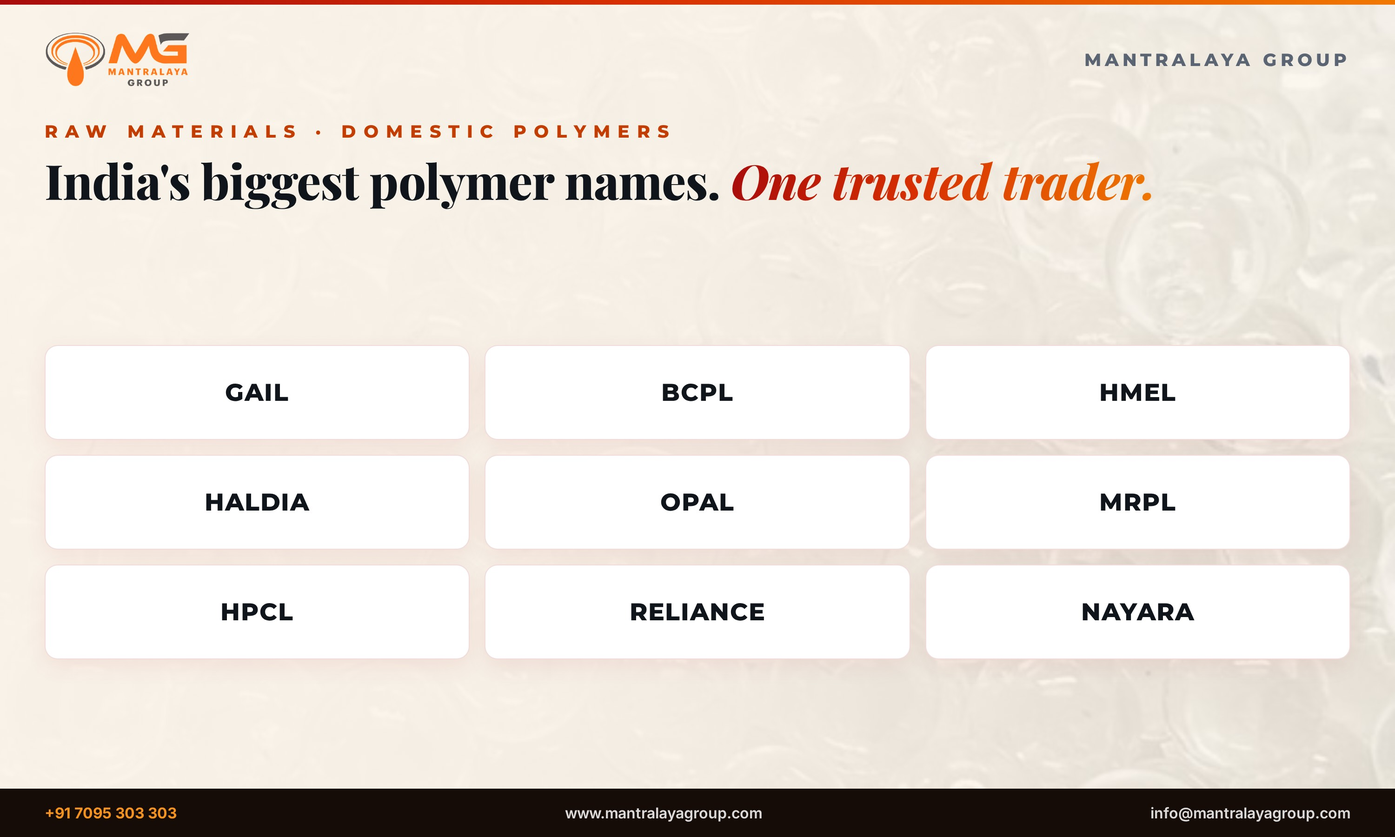
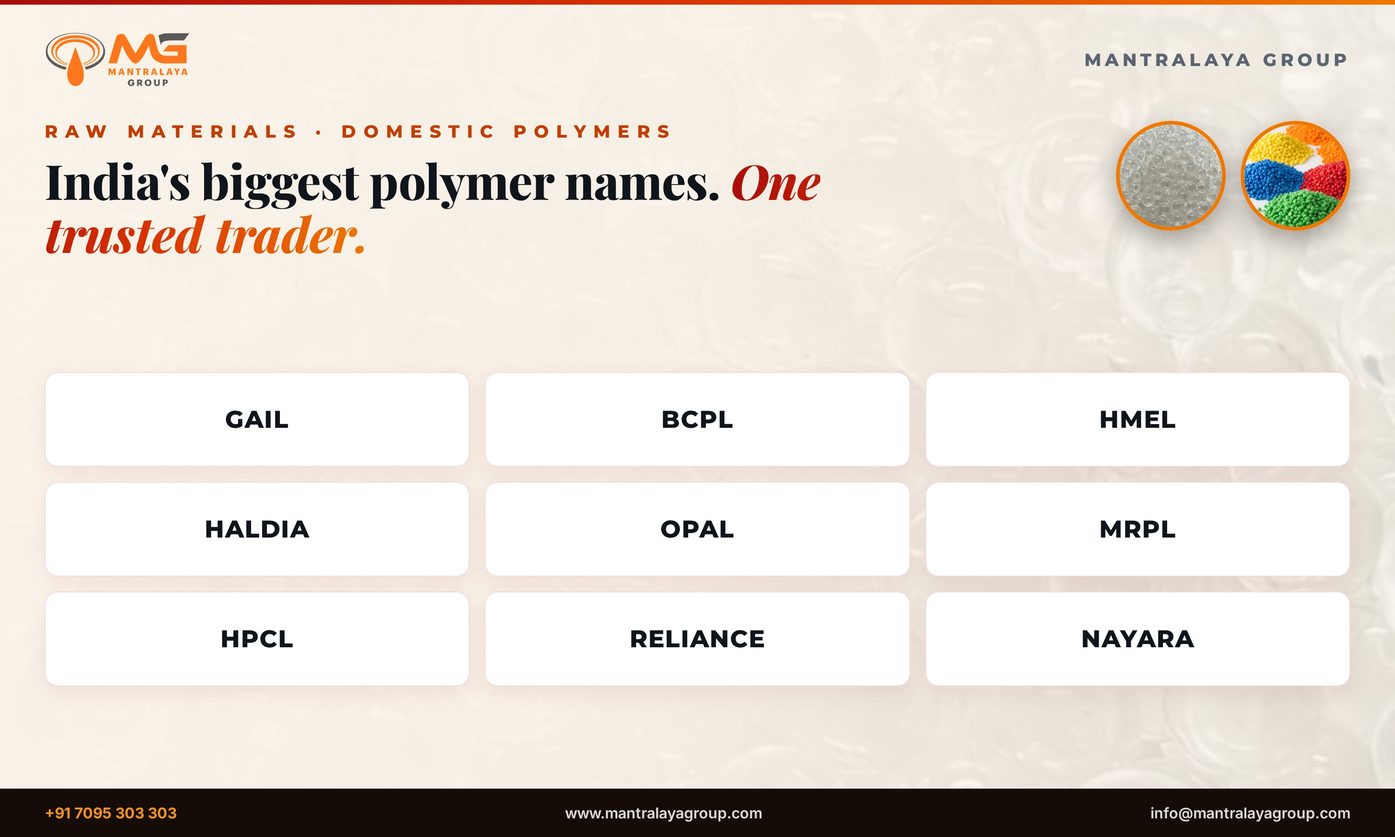
Posters: no expo references, raw-material photos, WE TRADE totem, BGP sutli poster with yellow rope

Changed region(s): [[0.031, 0.4044, 0.992, 0.84], [0.589, 0.1244, 0.992, 0.3111], [0.031, 0.2489, 0.248, 0.3111]]

diff --git a/posters/src/poster-12-totem--dark.html b/posters/src/poster-12-totem--dark.html
@@ -14,24 +14,26 @@ body{width:600px;height:2133px;overflow:hidden;position:relative;font-family:'Mo
 .bgimg::after{content:'';position:absolute;inset:0;background:linear-gradient(100deg, rgba(18,9,6,0.97) 0%, rgba(18,9,6,0.93) 45%, rgba(18,9,6,0.72) 100%)}
 .z{position:relative;z-index:4}
 </style></head><body><style>
-.wrap{flex:1;display:flex;flex-direction:column;align-items:center;text-align:center;padding:44px 40px 0;position:relative;z-index:4}
-.wrap img.lg{height:96px}
-.label2{margin-top:36px;font-size:24px;font-weight:800;letter-spacing:10px;color:#F6921E}
-.cap2{font-size:64px;margin-top:18px}
+.wrap{flex:1;display:flex;flex-direction:column;align-items:center;text-align:center;padding:40px 40px 0;position:relative;z-index:4}
+.wrap img.lg{height:92px}
+.label2{margin-top:30px;font-size:24px;font-weight:800;letter-spacing:10px;color:#F6921E}
+.cap2{font-size:60px;margin-top:14px}
 .cap2 em{background:linear-gradient(100deg,#FF6A2B,#F6921E 60%,#FFC46B);-webkit-background-clip:text;background-clip:text;color:transparent;font-style:italic}
-.tt{width:330px;height:330px;border-radius:50%;overflow:hidden;border:6px solid;margin-top:44px;box-shadow:0 16px 40px rgba(0,0,0,0.5)}
-.tt:nth-of-type(1){border-color:#A80B0B}.tt:nth-of-type(2){border-color:#F07800}
+.tw{margin-top:38px}
+.tt{width:280px;height:280px;border-radius:50%;overflow:hidden;border:6px solid;margin:0 auto;box-shadow:0 16px 40px rgba(0,0,0,0.5)}
+.tw:nth-of-type(1) .tt{border-color:#A80B0B}.tw:nth-of-type(2) .tt{border-color:#D83000}.tw:nth-of-type(3) .tt{border-color:#F07800}
 .tt img{width:100%;height:100%;object-fit:cover}
-.sec{margin-top:46px;font-size:20px;font-weight:800;letter-spacing:6px;color:rgba(255,255,255,0.55)}
-.bl{margin-top:14px;font-size:20px;font-weight:800;line-height:1.85;letter-spacing:0.5px}
-.stall{margin-top:70px;background:linear-gradient(105deg,#A80B0B 0%,#D83000 46%,#F07800 100%);color:#fff;border-radius:24px;padding:34px 46px;font-size:28px;font-weight:900;letter-spacing:2px;line-height:1.6;white-space:nowrap}
+.tl{margin-top:14px;font-size:19px;font-weight:800;letter-spacing:4px;color:rgba(255,255,255,0.85)}
+.wetrade{margin-top:52px;font-size:52px;font-weight:900;letter-spacing:6px;background:linear-gradient(100deg,#FF6A2B,#F6921E 60%,#FFC46B);-webkit-background-clip:text;background-clip:text;color:transparent;}
+.sec{margin-top:34px;font-size:20px;font-weight:800;letter-spacing:6px;color:rgba(255,255,255,0.55)}
+.bl{margin-top:12px;font-size:20px;font-weight:800;line-height:1.8;letter-spacing:0.5px}
 </style><div class="bgimg"><img src="../../products/natural-granules.jpg"></div>
 <div class="rule"></div>
 <div class="wrap"><img class="lg" src="../../mg-logo-dark.png">
 <div class="label2">RAW MATERIALS</div>
 <div class="cap cap2">Every polymer.<br><em>One counter.</em></div>
-<div class="tt"><img src="../../products/coloured-granules.jpg"></div><div class="tt"><img src="../../products/pigments.jpg"></div>
+<div class="tw"><div class="tt"><img src="../../products/natural-granules.jpg"></div><div class="tl">PLASTIC GRANULES</div></div><div class="tw"><div class="tt"><img src="../../products/coloured-granules.jpg"></div><div class="tl">MASTER BATCHES</div></div><div class="tw"><div class="tt"><img src="../../products/pigments.jpg"></div><div class="tl">PIGMENTS</div></div>
+<div class="wetrade">WE TRADE</div>
 <div class="sec">DOMESTIC</div><div class="bl">GAIL · BCPL · HMEL · HALDIA · OPAL<br>MRPL · HPCL · RELIANCE · NAYARA</div>
 <div class="sec">IMPORTED</div><div class="bl">ARAMCO · BOROUGE · CABOT · CELANESE<br>CHEVRON PHILLIPS · EXXON MOBIL · FORMOSA<br>GC MARKETING · GULF POLYMERS · INEOS<br>LG CHEM · LYONDELL BASELL · MITSUBISHI<br>OQ (LUBAN) · SABIC · SCGC · WESTLAKE</div>
-<div class="stall">HIPLEX 2026<br>HALL 4<br>STALLS C 05 &amp; C 06</div>
 </div><div class="ftr" style="justify-content:center;font-size:19px;"><span>www.mantralayagroup.com</span></div></body></html>

diff --git a/posters/src/poster-12-totem--light.html b/posters/src/poster-12-totem--light.html
@@ -14,24 +14,26 @@ body{width:600px;height:2133px;overflow:hidden;position:relative;font-family:'Mo
 .bgimg::after{content:'';position:absolute;inset:0;background:linear-gradient(100deg, rgba(251,244,235,0.97) 0%, rgba(251,244,235,0.94) 45%, rgba(251,244,235,0.72) 100%)}
 .z{position:relative;z-index:4}
 </style></head><body><style>
-.wrap{flex:1;display:flex;flex-direction:column;align-items:center;text-align:center;padding:44px 40px 0;position:relative;z-index:4}
-.wrap img.lg{height:96px}
-.label2{margin-top:36px;font-size:24px;font-weight:800;letter-spacing:10px;color:#C43D00}
-.cap2{font-size:64px;margin-top:18px}
+.wrap{flex:1;display:flex;flex-direction:column;align-items:center;text-align:center;padding:40px 40px 0;position:relative;z-index:4}
+.wrap img.lg{height:92px}
+.label2{margin-top:30px;font-size:24px;font-weight:800;letter-spacing:10px;color:#C43D00}
+.cap2{font-size:60px;margin-top:14px}
 .cap2 em{background:linear-gradient(100deg,#A80B0B,#D83000 45%,#F07800);-webkit-background-clip:text;background-clip:text;color:transparent;font-style:italic}
-.tt{width:330px;height:330px;border-radius:50%;overflow:hidden;border:6px solid;margin-top:44px;box-shadow:0 16px 40px rgba(0,0,0,0.15)}
-.tt:nth-of-type(1){border-color:#A80B0B}.tt:nth-of-type(2){border-color:#F07800}
+.tw{margin-top:38px}
+.tt{width:280px;height:280px;border-radius:50%;overflow:hidden;border:6px solid;margin:0 auto;box-shadow:0 16px 40px rgba(0,0,0,0.15)}
+.tw:nth-of-type(1) .tt{border-color:#A80B0B}.tw:nth-of-type(2) .tt{border-color:#D83000}.tw:nth-of-type(3) .tt{border-color:#F07800}
 .tt img{width:100%;height:100%;object-fit:cover}
-.sec{margin-top:46px;font-size:20px;font-weight:800;letter-spacing:6px;color:#8A93A0}
-.bl{margin-top:14px;font-size:20px;font-weight:800;line-height:1.85;letter-spacing:0.5px}
-.stall{margin-top:70px;background:linear-gradient(105deg,#A80B0B 0%,#D83000 46%,#F07800 100%);color:#fff;border-radius:24px;padding:34px 46px;font-size:28px;font-weight:900;letter-spacing:2px;line-height:1.6;white-space:nowrap}
+.tl{margin-top:14px;font-size:19px;font-weight:800;letter-spacing:4px;color:#3A4250}
+.wetrade{margin-top:52px;font-size:52px;font-weight:900;letter-spacing:6px;background:linear-gradient(100deg,#A80B0B,#D83000 45%,#F07800);-webkit-background-clip:text;background-clip:text;color:transparent;}
+.sec{margin-top:34px;font-size:20px;font-weight:800;letter-spacing:6px;color:#8A93A0}
+.bl{margin-top:12px;font-size:20px;font-weight:800;line-height:1.8;letter-spacing:0.5px}
 </style><div class="bgimg"><img src="../../products/natural-granules.jpg"></div>
 <div class="rule"></div>
 <div class="wrap"><img class="lg" src="../../mg-logo.png">
 <div class="label2">RAW MATERIALS</div>
 <div class="cap cap2">Every polymer.<br><em>One counter.</em></div>
-<div class="tt"><img src="../../products/coloured-granules.jpg"></div><div class="tt"><img src="../../products/pigments.jpg"></div>
+<div class="tw"><div class="tt"><img src="../../products/natural-granules.jpg"></div><div class="tl">PLASTIC GRANULES</div></div><div class="tw"><div class="tt"><img src="../../products/coloured-granules.jpg"></div><div class="tl">MASTER BATCHES</div></div><div class="tw"><div class="tt"><img src="../../products/pigments.jpg"></div><div class="tl">PIGMENTS</div></div>
+<div class="wetrade">WE TRADE</div>
 <div class="sec">DOMESTIC</div><div class="bl">GAIL · BCPL · HMEL · HALDIA · OPAL<br>MRPL · HPCL · RELIANCE · NAYARA</div>
 <div class="sec">IMPORTED</div><div class="bl">ARAMCO · BOROUGE · CABOT · CELANESE<br>CHEVRON PHILLIPS · EXXON MOBIL · FORMOSA<br>GC MARKETING · GULF POLYMERS · INEOS<br>LG CHEM · LYONDELL BASELL · MITSUBISHI<br>OQ (LUBAN) · SABIC · SCGC · WESTLAKE</div>
-<div class="stall">HIPLEX 2026<br>HALL 4<br>STALLS C 05 &amp; C 06</div>
 </div><div class="ftr" style="justify-content:center;font-size:19px;"><span>www.mantralayagroup.com</span></div></body></html>

diff --git a/posters/src/poster-02-raw-imported--light.html b/posters/src/poster-02-raw-imported--light.html
@@ -15,9 +15,12 @@ body{width:1650px;height:900px;overflow:hidden;position:relative;font-family:'Mo
 .z{position:relative;z-index:4}
 </style></head><body><style>
 .wrap{padding:36px 48px 30px;display:flex;flex-direction:column;flex:1}
-.cap2{font-size:52px;margin-top:12px}
+.cap2{font-size:52px;margin-top:12px;max-width:72%}
 .cap2 em{background:linear-gradient(100deg,#A80B0B,#D83000 45%,#F07800);-webkit-background-clip:text;background-clip:text;color:transparent;font-style:italic}
 .bgrid{margin-top:40px;display:grid;grid-template-columns:repeat(6,1fr);gap:16px;flex:1;align-content:center}
 .b{background:#ffffff;border:1px solid rgba(168,11,11,0.15);box-shadow:0 8px 24px rgba(168,11,11,0.07);border-radius:14px;display:flex;align-items:center;justify-content:center;font-size:26px;font-weight:800;letter-spacing:1px;padding:34px 10px;text-align:center}
-</style><div class="bgimg"><img src="../../products/coloured-granules.jpg"></div><div class="rule"></div><div class="hdr"><img src="../../mg-logo.png"><div class="co">MANTRALAYA GROUP</div></div>
+.pts{position:absolute;right:48px;top:130px;display:flex;gap:16px;z-index:5}
+.pt{width:118px;height:118px;border-radius:50%;overflow:hidden;border:4px solid #F07800;box-shadow:0 10px 28px rgba(0,0,0,0.35)}
+.pt img{width:100%;height:100%;object-fit:cover}
+</style><div class="bgimg"><img src="../../products/coloured-granules.jpg"></div><div class="rule"></div><div class="hdr"><img src="../../mg-logo.png"><div class="co">MANTRALAYA GROUP</div></div><div class="pts"><div class="pt"><img src="../../products/coloured-granules.jpg"></div><div class="pt"><img src="../../products/pigments.jpg"></div></div>
 <div class="wrap z"><div class="label">RAW MATERIALS · IMPORTED POLYMERS</div><div class="cap cap2">Sourced from the world's finest. <em>Delivered here.</em></div><div class="bgrid"><div class="b">ARAMCO</div><div class="b">BOROUGE</div><div class="b">CABOT</div><div class="b">CELANESE</div><div class="b">CHEVRON PHILLIPS</div><div class="b">EXXON MOBIL</div><div class="b">FORMOSA</div><div class="b">GC MARKETING</div><div class="b">GULF POLYMERS</div><div class="b">INEOS (INOVYN)</div><div class="b">LG CHEM</div><div class="b">LYONDELL BASELL</div><div class="b">MITSUBISHI CORP.</div><div class="b">OQ (LUBAN)</div><div class="b">SABIC</div><div class="b">SCGC</div><div class="b">WESTLAKE</div><div class="b">&amp; MORE</div></div></div><div class="ftr"><span><b>+91 7095 303 303</b></span><span>www.mantralayagroup.com</span><span>info@mantralayagroup.com</span></div></body></html>

diff --git a/posters/src/poster-02-raw-imported--dark.html b/posters/src/poster-02-raw-imported--dark.html
@@ -15,9 +15,12 @@ body{width:1650px;height:900px;overflow:hidden;position:relative;font-family:'Mo
 .z{position:relative;z-index:4}
 </style></head><body><style>
 .wrap{padding:36px 48px 30px;display:flex;flex-direction:column;flex:1}
-.cap2{font-size:52px;margin-top:12px}
+.cap2{font-size:52px;margin-top:12px;max-width:72%}
 .cap2 em{background:linear-gradient(100deg,#FF6A2B,#F6921E 60%,#FFC46B);-webkit-background-clip:text;background-clip:text;color:transparent;font-style:italic}
 .bgrid{margin-top:40px;display:grid;grid-template-columns:repeat(6,1fr);gap:16px;flex:1;align-content:center}
 .b{background:rgba(255,255,255,0.06);border:1px solid rgba(240,120,0,0.4);border-radius:14px;display:flex;align-items:center;justify-content:center;font-size:26px;font-weight:800;letter-spacing:1px;padding:34px 10px;text-align:center}
-</style><div class="bgimg"><img src="../../products/coloured-granules.jpg"></div><div class="rule"></div><div class="hdr"><img src="../../mg-logo-dark.png"><div class="co">MANTRALAYA GROUP</div></div>
+.pts{position:absolute;right:48px;top:130px;display:flex;gap:16px;z-index:5}
+.pt{width:118px;height:118px;border-radius:50%;overflow:hidden;border:4px solid #F07800;box-shadow:0 10px 28px rgba(0,0,0,0.35)}
+.pt img{width:100%;height:100%;object-fit:cover}
+</style><div class="bgimg"><img src="../../products/coloured-granules.jpg"></div><div class="rule"></div><div class="hdr"><img src="../../mg-logo-dark.png"><div class="co">MANTRALAYA GROUP</div></div><div class="pts"><div class="pt"><img src="../../products/coloured-granules.jpg"></div><div class="pt"><img src="../../products/pigments.jpg"></div></div>
 <div class="wrap z"><div class="label">RAW MATERIALS · IMPORTED POLYMERS</div><div class="cap cap2">Sourced from the world's finest. <em>Delivered here.</em></div><div class="bgrid"><div class="b">ARAMCO</div><div class="b">BOROUGE</div><div class="b">CABOT</div><div class="b">CELANESE</div><div class="b">CHEVRON PHILLIPS</div><div class="b">EXXON MOBIL</div><div class="b">FORMOSA</div><div class="b">GC MARKETING</div><div class="b">GULF POLYMERS</div><div class="b">INEOS (INOVYN)</div><div class="b">LG CHEM</div><div class="b">LYONDELL BASELL</div><div class="b">MITSUBISHI CORP.</div><div class="b">OQ (LUBAN)</div><div class="b">SABIC</div><div class="b">SCGC</div><div class="b">WESTLAKE</div><div class="b">&amp; MORE</div></div></div><div class="ftr"><span><b>+91 7095 303 303</b></span><span>www.mantralayagroup.com</span><span>info@mantralayagroup.com</span></div></body></html>

diff --git a/posters/src/poster-01-raw-domestic--light.html b/posters/src/poster-01-raw-domestic--light.html
@@ -15,9 +15,12 @@ body{width:1500px;height:900px;overflow:hidden;position:relative;font-family:'Mo
 .z{position:relative;z-index:4}
 </style></head><body><style>
 .wrap{padding:36px 48px 30px;display:flex;flex-direction:column;flex:1}
-.cap2{font-size:52px;margin-top:12px}
+.cap2{font-size:52px;margin-top:12px;max-width:72%}
 .cap2 em{background:linear-gradient(100deg,#A80B0B,#D83000 45%,#F07800);-webkit-background-clip:text;background-clip:text;color:transparent;font-style:italic}
 .bgrid{margin-top:40px;display:grid;grid-template-columns:repeat(3,1fr);gap:16px;flex:1;align-content:center}
 .b{background:#ffffff;border:1px solid rgba(168,11,11,0.15);box-shadow:0 8px 24px rgba(168,11,11,0.07);border-radius:14px;display:flex;align-items:center;justify-content:center;font-size:26px;font-weight:800;letter-spacing:1px;padding:34px 10px;text-align:center}
-</style><div class="bgimg"><img src="../../products/natural-granules.jpg"></div><div class="rule"></div><div class="hdr"><img src="../../mg-logo.png"><div class="co">MANTRALAYA GROUP</div></div>
+.pts{position:absolute;right:48px;top:130px;display:flex;gap:16px;z-index:5}
+.pt{width:118px;height:118px;border-radius:50%;overflow:hidden;border:4px solid #F07800;box-shadow:0 10px 28px rgba(0,0,0,0.35)}
+.pt img{width:100%;height:100%;object-fit:cover}
+</style><div class="bgimg"><img src="../../products/natural-granules.jpg"></div><div class="rule"></div><div class="hdr"><img src="../../mg-logo.png"><div class="co">MANTRALAYA GROUP</div></div><div class="pts"><div class="pt"><img src="../../products/natural-granules.jpg"></div><div class="pt"><img src="../../products/coloured-granules.jpg"></div></div>
 <div class="wrap z"><div class="label">RAW MATERIALS · DOMESTIC POLYMERS</div><div class="cap cap2">India's biggest polymer names. <em>One trusted trader.</em></div><div class="bgrid"><div class="b">GAIL</div><div class="b">BCPL</div><div class="b">HMEL</div><div class="b">HALDIA</div><div class="b">OPAL</div><div class="b">MRPL</div><div class="b">HPCL</div><div class="b">RELIANCE</div><div class="b">NAYARA</div></div></div><div class="ftr"><span><b>+91 7095 303 303</b></span><span>www.mantralayagroup.com</span><span>info@mantralayagroup.com</span></div></body></html>

diff --git a/posters/src/poster-01-raw-domestic--dark.html b/posters/src/poster-01-raw-domestic--dark.html
@@ -15,9 +15,12 @@ body{width:1500px;height:900px;overflow:hidden;position:relative;font-family:'Mo
 .z{position:relative;z-index:4}
 </style></head><body><style>
 .wrap{padding:36px 48px 30px;display:flex;flex-direction:column;flex:1}
-.cap2{font-size:52px;margin-top:12px}
+.cap2{font-size:52px;margin-top:12px;max-width:72%}
 .cap2 em{background:linear-gradient(100deg,#FF6A2B,#F6921E 60%,#FFC46B);-webkit-background-clip:text;background-clip:text;color:transparent;font-style:italic}
 .bgrid{margin-top:40px;display:grid;grid-template-columns:repeat(3,1fr);gap:16px;flex:1;align-content:center}
 .b{background:rgba(255,255,255,0.06);border:1px solid rgba(240,120,0,0.4);border-radius:14px;display:flex;align-items:center;justify-content:center;font-size:26px;font-weight:800;letter-spacing:1px;padding:34px 10px;text-align:center}
-</style><div class="bgimg"><img src="../../products/natural-granules.jpg"></div><div class="rule"></div><div class="hdr"><img src="../../mg-logo-dark.png"><div class="co">MANTRALAYA GROUP</div></div>
+.pts{position:absolute;right:48px;top:130px;display:flex;gap:16px;z-index:5}
+.pt{width:118px;height:118px;border-radius:50%;overflow:hidden;border:4px solid #F07800;box-shadow:0 10px 28px rgba(0,0,0,0.35)}
+.pt img{width:100%;height:100%;object-fit:cover}
+</style><div class="bgimg"><img src="../../products/natural-granules.jpg"></div><div class="rule"></div><div class="hdr"><img src="../../mg-logo-dark.png"><div class="co">MANTRALAYA GROUP</div></div><div class="pts"><div class="pt"><img src="../../products/natural-granules.jpg"></div><div class="pt"><img src="../../products/coloured-granules.jpg"></div></div>
 <div class="wrap z"><div class="label">RAW MATERIALS · DOMESTIC POLYMERS</div><div class="cap cap2">India's biggest polymer names. <em>One trusted trader.</em></div><div class="bgrid"><div class="b">GAIL</div><div class="b">BCPL</div><div class="b">HMEL</div><div class="b">HALDIA</div><div class="b">OPAL</div><div class="b">MRPL</div><div class="b">HPCL</div><div class="b">RELIANCE</div><div class="b">NAYARA</div></div></div><div class="ftr"><span><b>+91 7095 303 303</b></span><span>www.mantralayagroup.com</span><span>info@mantralayagroup.com</span></div></body></html>

diff --git a/posters/src/poster-08-sutli-ropes--dark.html b/posters/src/poster-08-sutli-ropes--dark.html
@@ -22,5 +22,5 @@ body{width:1500px;height:600px;overflow:hidden;position:relative;font-family:'Mo
 .tiles{flex:1;display:grid;grid-template-columns:repeat(2,1fr);gap:16px}
 .tile{border-radius:16px;overflow:hidden;border:3px solid rgba(240,120,0,0.7);aspect-ratio:1.25;box-shadow:0 12px 30px rgba(0,0,0,0.4)}
 .tile img{width:100%;height:100%;object-fit:cover}
-</style><div class="bgimg"><img src="../../products/ropes.jpg"></div><div class="rule"></div><div class="hdr"><img src="../../mg-logo-dark.png"><div class="co">MANTRALAYA GROUP</div></div>
-<div class="wrap z"><div class="lt"><div class="label">END PRODUCTS</div><div class="cap cap2">Sutli, ropes &amp; twine — <em>every budget.</em></div><div class="sub">Manufactured under multiple brands with various qualities and price ranges.</div></div><div class="tiles"><div class="tile"><img src="../../products/plastic-sutli.jpg"></div><div class="tile"><img src="../../products/ropes.jpg"></div></div></div><div class="ftr"><span><b>+91 7095 303 303</b></span><span>www.mantralayagroup.com</span><span>info@mantralayagroup.com</span></div></body></html>
+</style><div class="bgimg"><img src="../../products/ropes.jpg"></div><div class="rule"></div><div class="hdr"><img src="../../mg-logo-dark.png"><div class="co">BALA GANESHA POLYMERS</div></div>
+<div class="wrap z"><div class="lt"><div class="label">END PRODUCTS</div><div class="cap cap2">Sutli, ropes &amp; twine — <em>every budget.</em></div><div class="sub">Manufactured under multiple brands with various qualities and price ranges.</div></div><div class="tiles"><div class="tile"><img src="../../products/plastic-sutli.jpg"></div><div class="tile"><img src="../../products/rope-yellow.jpg"></div></div></div><div class="ftr"><span><b>+91 7095 303 303</b></span><span>www.mantralayagroup.com</span><span>info@mantralayagroup.com</span></div></body></html>

diff --git a/posters/src/poster-08-sutli-ropes--light.html b/posters/src/poster-08-sutli-ropes--light.html
@@ -22,5 +22,5 @@ body{width:1500px;height:600px;overflow:hidden;position:relative;font-family:'Mo
 .tiles{flex:1;display:grid;grid-template-columns:repeat(2,1fr);gap:16px}
 .tile{border-radius:16px;overflow:hidden;border:3px solid #D83000;aspect-ratio:1.25;box-shadow:0 12px 30px rgba(0,0,0,0.12)}
 .tile img{width:100%;height:100%;object-fit:cover}
-</style><div class="bgimg"><img src="../../products/ropes.jpg"></div><div class="rule"></div><div class="hdr"><img src="../../mg-logo.png"><div class="co">MANTRALAYA GROUP</div></div>
-<div class="wrap z"><div class="lt"><div class="label">END PRODUCTS</div><div class="cap cap2">Sutli, ropes &amp; twine — <em>every budget.</em></div><div class="sub">Manufactured under multiple brands with various qualities and price ranges.</div></div><div class="tiles"><div class="tile"><img src="../../products/plastic-sutli.jpg"></div><div class="tile"><img src="../../products/ropes.jpg"></div></div></div><div class="ftr"><span><b>+91 7095 303 303</b></span><span>www.mantralayagroup.com</span><span>info@mantralayagroup.com</span></div></body></html>
+</style><div class="bgimg"><img src="../../products/ropes.jpg"></div><div class="rule"></div><div class="hdr"><img src="../../mg-logo.png"><div class="co">BALA GANESHA POLYMERS</div></div>
+<div class="wrap z"><div class="lt"><div class="label">END PRODUCTS</div><div class="cap cap2">Sutli, ropes &amp; twine — <em>every budget.</em></div><div class="sub">Manufactured under multiple brands with various qualities and price ranges.</div></div><div class="tiles"><div class="tile"><img src="../../products/plastic-sutli.jpg"></div><div class="tile"><img src="../../products/rope-yellow.jpg"></div></div></div><div class="ftr"><span><b>+91 7095 303 303</b></span><span>www.mantralayagroup.com</span><span>info@mantralayagroup.com</span></div></body></html>

diff --git a/posters/gen2.py b/posters/gen2.py
@@ -38,16 +38,20 @@ def hdr(dark, co='MANTRALAYA GROUP'):
 def bgimg(photo): return f'<div class="bgimg"><img src="{P(photo)}"></div>'
 
 # ---------- templates (each takes dark:bool) ----------
-def brandgrid(w,h,dark,label,cap,brands,cols,bgphoto):
+def brandgrid(w,h,dark,label,cap,brands,cols,bgphoto,circles=None):
     card = 'rgba(255,255,255,0.06);border:1px solid rgba(240,120,0,0.4)' if dark else '#ffffff;border:1px solid rgba(168,11,11,0.15);box-shadow:0 8px 24px rgba(168,11,11,0.07)'
     bs = ''.join(f'<div class="b">{b}</div>' for b in brands)
+    ph = ''.join(f'<div class="pt"><img src="{P(p)}"></div>' for p in (circles or []))
     return base(w,h,dark)+f"""<style>
 .wrap{{padding:36px 48px 30px;display:flex;flex-direction:column;flex:1}}
-.cap2{{font-size:52px;margin-top:12px}}
+.cap2{{font-size:52px;margin-top:12px;max-width:72%}}
 .cap2 em{{{GT_W if dark else GT_D}font-style:italic}}
 .bgrid{{margin-top:40px;display:grid;grid-template-columns:repeat({cols},1fr);gap:16px;flex:1;align-content:center}}
 .b{{background:{card};border-radius:14px;display:flex;align-items:center;justify-content:center;font-size:26px;font-weight:800;letter-spacing:1px;padding:34px 10px;text-align:center}}
-</style>{bgimg(bgphoto)}{hdr(dark)}
+.pts{{position:absolute;right:48px;top:130px;display:flex;gap:16px;z-index:5}}
+.pt{{width:118px;height:118px;border-radius:50%;overflow:hidden;border:4px solid #F07800;box-shadow:0 10px 28px rgba(0,0,0,0.35)}}
+.pt img{{width:100%;height:100%;object-fit:cover}}
+</style>{bgimg(bgphoto)}{hdr(dark)}<div class="pts">{ph}</div>
 <div class="wrap z"><div class="label">{label}</div><div class="cap cap2">{cap}</div><div class="bgrid">{bs}</div></div>{FOOT}"""
 
 def photoposter(w,h,dark,label,cap,sub,photo):
@@ -80,7 +84,7 @@ def appsposter(w,h,dark,label,cap,cols_data,bgphoto):
 </style>{bgimg(bgphoto)}{hdr(dark)}
 <div class="wrap z"><div class="label">{label}</div><div class="cap cap2">{cap}</div><div class="cols">{cols}</div></div>{FOOT}"""
 
-def duoposter(w,h,dark,label,cap,sub,photos,bgphoto):
+def duoposter(w,h,dark,label,cap,sub,photos,bgphoto,co='MANTRALAYA GROUP'):
     ph = ''.join(f'<div class="tile"><img src="{P(p)}"></div>' for p in photos)
     return base(w,h,dark)+f"""<style>
 .wrap{{padding:30px 48px 26px;flex:1;display:flex;gap:40px;align-items:center}}
@@ -91,7 +95,7 @@ def duoposter(w,h,dark,label,cap,sub,photos,bgphoto):
 .tiles{{flex:1;display:grid;grid-template-columns:repeat(2,1fr);gap:16px}}
 .tile{{border-radius:16px;overflow:hidden;border:3px solid {'rgba(240,120,0,0.7)' if dark else '#D83000'};aspect-ratio:1.25;box-shadow:0 12px 30px rgba(0,0,0,{'0.4' if dark else '0.12'})}}
 .tile img{{width:100%;height:100%;object-fit:cover}}
-</style>{bgimg(bgphoto)}{hdr(dark)}
+</style>{bgimg(bgphoto)}{hdr(dark,co)}
 <div class="wrap z"><div class="lt"><div class="label">{label}</div><div class="cap cap2">{cap}</div><div class="sub">{sub}</div></div><div class="tiles">{ph}</div></div>{FOOT}"""
 
 def collageposter(w,h,dark,label,cap,sub,url,photos):
@@ -113,29 +117,32 @@ def collageposter(w,h,dark,label,cap,sub,url,photos):
 def totem(w,h,dark):
     brands_d = 'GAIL · BCPL · HMEL · HALDIA · OPAL<br>MRPL · HPCL · RELIANCE · NAYARA'
     brands_i = 'ARAMCO · BOROUGE · CABOT · CELANESE<br>CHEVRON PHILLIPS · EXXON MOBIL · FORMOSA<br>GC MARKETING · GULF POLYMERS · INEOS<br>LG CHEM · LYONDELL BASELL · MITSUBISHI<br>OQ (LUBAN) · SABIC · SCGC · WESTLAKE'
-    tiles = ''.join(f'<div class="tt"><img src="{P(p)}"></div>' for p in ['coloured-granules','pigments'])
+    tiles = ''.join(f'<div class="tw"><div class="tt"><img src="{P(p)}"></div><div class="tl">{l}</div></div>'
+                    for p,l in [('natural-granules','PLASTIC GRANULES'),('coloured-granules','MASTER BATCHES'),('pigments','PIGMENTS')])
     logo = '../../mg-logo-dark.png' if dark else '../../mg-logo.png'
     return base(w,h,dark)+f"""<style>
-.wrap{{flex:1;display:flex;flex-direction:column;align-items:center;text-align:center;padding:44px 40px 0;position:relative;z-index:4}}
-.wrap img.lg{{height:96px}}
-.label2{{margin-top:36px;font-size:24px;font-weight:800;letter-spacing:10px;color:{'#F6921E' if dark else '#C43D00'}}}
-.cap2{{font-size:64px;margin-top:18px}}
+.wrap{{flex:1;display:flex;flex-direction:column;align-items:center;text-align:center;padding:40px 40px 0;position:relative;z-index:4}}
+.wrap img.lg{{height:92px}}
+.label2{{margin-top:30px;font-size:24px;font-weight:800;letter-spacing:10px;color:{'#F6921E' if dark else '#C43D00'}}}
+.cap2{{font-size:60px;margin-top:14px}}
 .cap2 em{{{GT_W if dark else GT_D}font-style:italic}}
-.tt{{width:330px;height:330px;border-radius:50%;overflow:hidden;border:6px solid;margin-top:44px;box-shadow:0 16px 40px rgba(0,0,0,{'0.5' if dark else '0.15'})}}
-.tt:nth-of-type(1){{border-color:#A80B0B}}.tt:nth-of-type(2){{border-color:#F07800}}
+.tw{{margin-top:38px}}
+.tt{{width:280px;height:280px;border-radius:50%;overflow:hidden;border:6px solid;margin:0 auto;box-shadow:0 16px 40px rgba(0,0,0,{'0.5' if dark else '0.15'})}}
+.tw:nth-of-type(1) .tt{{border-color:#A80B0B}}.tw:nth-of-type(2) .tt{{border-color:#D83000}}.tw:nth-of-type(3) .tt{{border-color:#F07800}}
 .tt img{{width:100%;height:100%;object-fit:cover}}
-.sec{{margin-top:46px;font-size:20px;font-weight:800;letter-spacing:6px;color:{'rgba(255,255,255,0.55)' if dark else '#8A93A0'}}}
-.bl{{margin-top:14px;font-size:20px;font-weight:800;line-height:1.85;letter-spacing:0.5px}}
-.stall{{margin-top:70px;background:{GRAD};color:#fff;border-radius:24px;padding:34px 46px;font-size:28px;font-weight:900;letter-spacing:2px;line-height:1.6;white-space:nowrap}}
+.tl{{margin-top:14px;font-size:19px;font-weight:800;letter-spacing:4px;color:{'rgba(255,255,255,0.85)' if dark else '#3A4250'}}}
+.wetrade{{margin-top:52px;font-size:52px;font-weight:900;letter-spacing:6px;{GT_W if dark else GT_D}}}
+.sec{{margin-top:34px;font-size:20px;font-weight:800;letter-spacing:6px;color:{'rgba(255,255,255,0.55)' if dark else '#8A93A0'}}}
+.bl{{margin-top:12px;font-size:20px;font-weight:800;line-height:1.8;letter-spacing:0.5px}}
 </style>{bgimg('natural-granules')}
 <div class="rule"></div>
 <div class="wrap"><img class="lg" src="{logo}">
 <div class="label2">RAW MATERIALS</div>
 <div class="cap cap2">Every polymer.<br><em>One counter.</em></div>
 {tiles}
+<div class="wetrade">WE TRADE</div>
 <div class="sec">DOMESTIC</div><div class="bl">{brands_d}</div>
 <div class="sec">IMPORTED</div><div class="bl">{brands_i}</div>
-<div class="stall">HIPLEX 2026<br>HALL 4<br>STALLS C 05 &amp; C 06</div>
 </div><div class="ftr" style="justify-content:center;font-size:19px;"><span>www.mantralayagroup.com</span></div></body></html>"""
 
 def message(w,h,dark,label,cap,sub,extra='',capsize=None,sidephoto=None):
@@ -172,10 +179,10 @@ def build(dark):
     em = lambda t: f"<em>{t}</em>"
     v['poster-01-raw-domestic'] = (1500,900, brandgrid(1500,900,dark,'RAW MATERIALS · DOMESTIC POLYMERS',
       f"India's biggest polymer names. {em('One trusted trader.')}",
-      ['GAIL','BCPL','HMEL','HALDIA','OPAL','MRPL','HPCL','RELIANCE','NAYARA'],3,'natural-granules'))
+      ['GAIL','BCPL','HMEL','HALDIA','OPAL','MRPL','HPCL','RELIANCE','NAYARA'],3,'natural-granules',circles=['natural-granules','coloured-granules']))
     v['poster-02-raw-imported'] = (1650,900, brandgrid(1650,900,dark,'RAW MATERIALS · IMPORTED POLYMERS',
       f"Sourced from the world's finest. {em('Delivered here.')}",
-      ['ARAMCO','BOROUGE','CABOT','CELANESE','CHEVRON PHILLIPS','EXXON MOBIL','FORMOSA','GC MARKETING','GULF POLYMERS','INEOS (INOVYN)','LG CHEM','LYONDELL BASELL','MITSUBISHI CORP.','OQ (LUBAN)','SABIC','SCGC','WESTLAKE','&amp; MORE'],6,'coloured-granules'))
+      ['ARAMCO','BOROUGE','CABOT','CELANESE','CHEVRON PHILLIPS','EXXON MOBIL','FORMOSA','GC MARKETING','GULF POLYMERS','INEOS (INOVYN)','LG CHEM','LYONDELL BASELL','MITSUBISHI CORP.','OQ (LUBAN)','SABIC','SCGC','WESTLAKE','&amp; MORE'],6,'coloured-granules',circles=['coloured-granules','pigments']))
     v['poster-03-pigments'] = (700,1000, photoposter(700,1000,dark,'PIGMENTS','Colour, mastered.','Organic &amp; inorganic pigments for every application.','pigments'))
     v['poster-04-moisture'] = (800,1000, photoposter(800,1000,dark,'MOISTURE POWDER &amp; DANA','Dry. Consistent. Reliable.','Moisture powder &amp; moisture dana — quality you can measure.','natural-granules'))
     v['poster-05-masterbatch'] = (700,1000, photoposter(700,1000,dark,'MASTER BATCHES','The right shade. Every batch.','White, black &amp; colour master batches.','coloured-granules'))
@@ -188,7 +195,7 @@ def build(dark):
        ('Moulding',['Blow moulding up to 100 litres','Overhead tanks','Drip laterals']),
        ('Specialty',['Extrusion coating','Imported granules &amp; master batches','Adhesive lamination &amp; foam film'])],'greenhouse-films'))
     v['poster-08-sutli-ropes'] = (1500,600, duoposter(1500,600,dark,'END PRODUCTS',f"Sutli, ropes &amp; twine — {em('every budget.')}",
-      'Manufactured under multiple brands with various qualities and price ranges.',['plastic-sutli','ropes'],'ropes'))
+      'Manufactured under multiple brands with various qualities and price ranges.',['plastic-sutli','rope-yellow'],'ropes',co='BALA GANESHA POLYMERS'))
     v['poster-09-bags'] = (1500,600, duoposter(1500,600,dark,'END PRODUCTS',f"Bags for {em('every business.')}",
       'PP &amp; PE bags · BOPP bags · Non-woven bags · Garment &amp; jewellery packing',['pp-bags','non-woven-bags','garment-bags','bopp-bags'],'non-woven-bags'))
     v['poster-10-films'] = (1000,1000, photoposter(1000,1000,dark,'POLY FILMS','Films that protect what you make.','Treated rolls · Stretch film · Packaging films','treated-rolls'))
